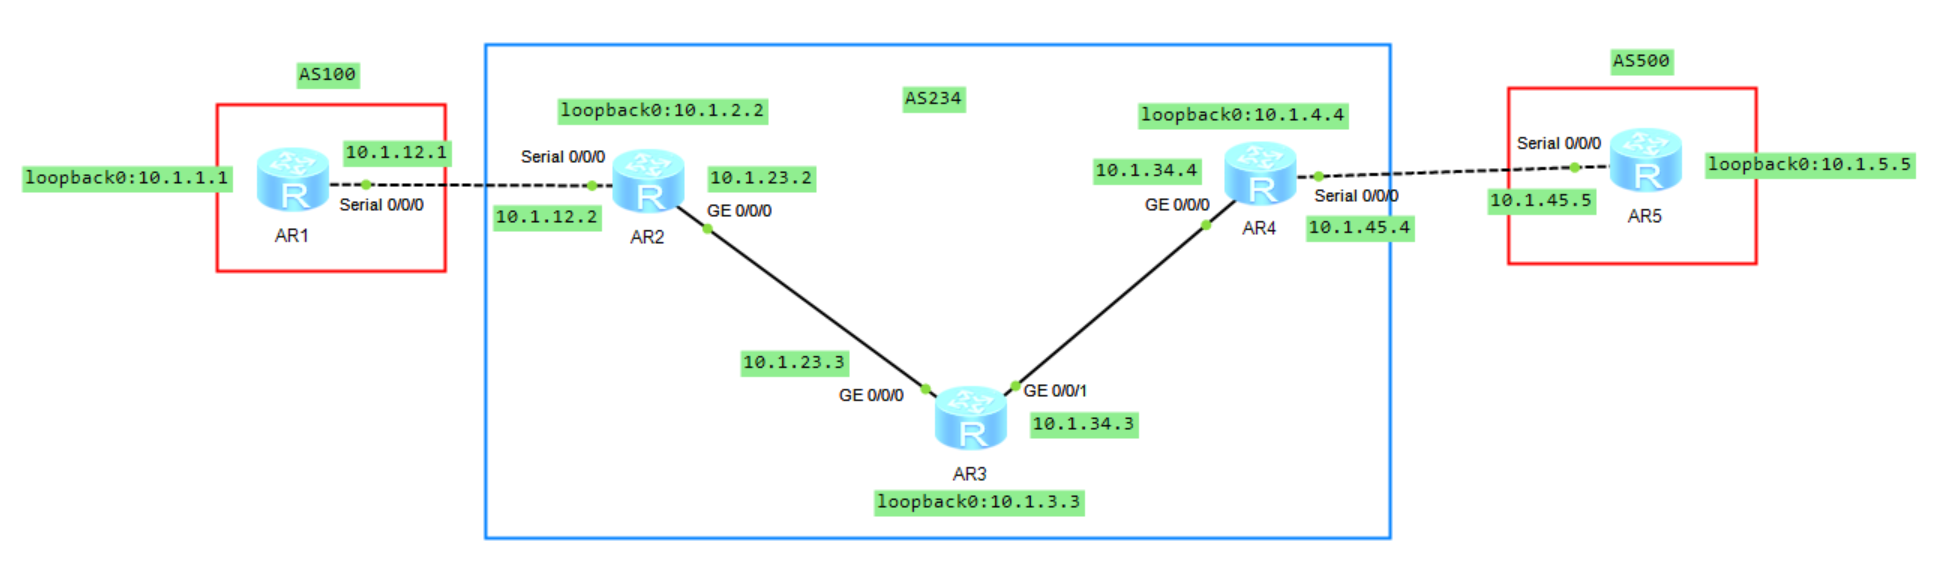
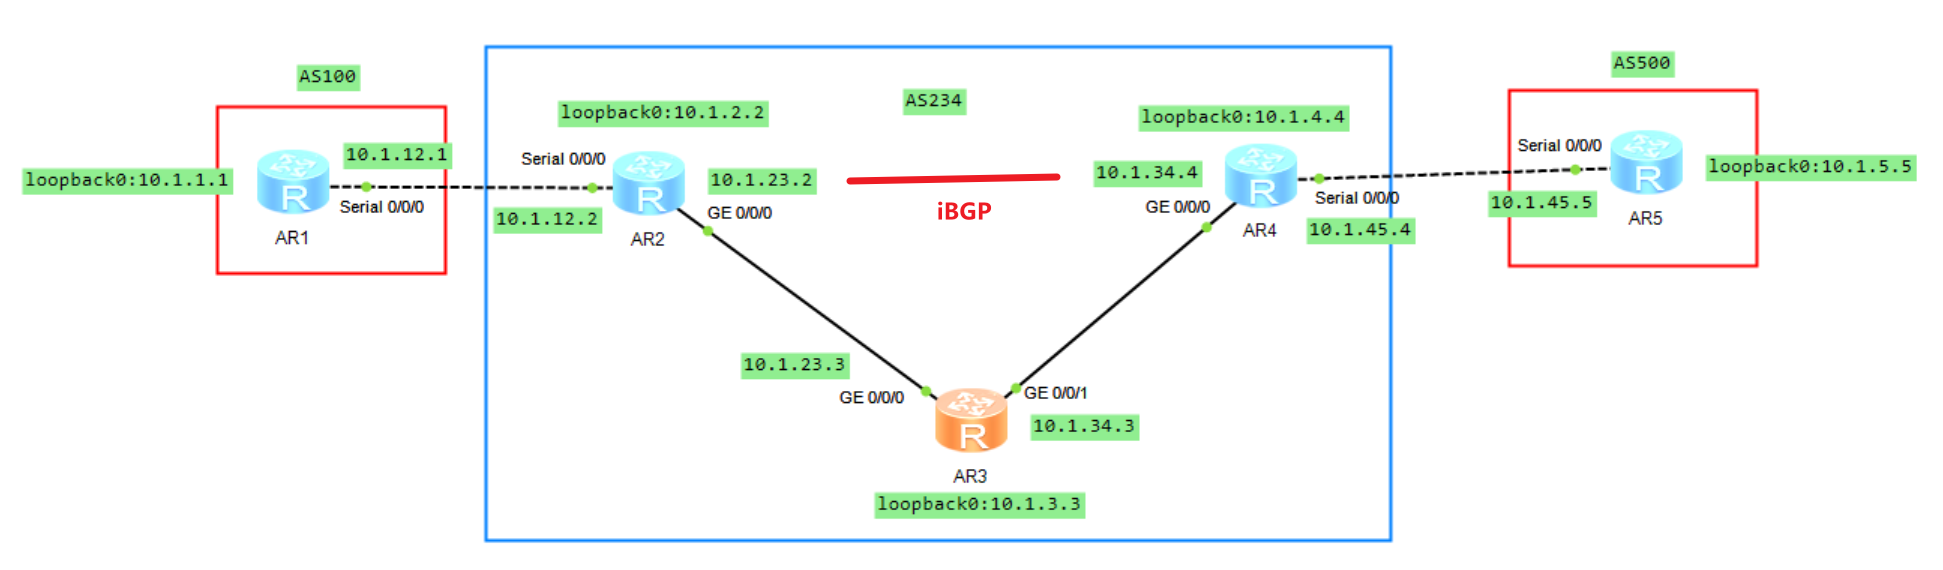
bgp 部分互联

diff --git a/计算机网络/网络层/bgp/BGP 基础.md b/计算机网络/网络层/bgp/BGP 基础.md
@@ -454,10 +454,8 @@ ip ip-prefix AR1-BGP-TO-OSPF index 10 permit 10.1.1.0 24
 
 ```java{.line-numbers}
 <AR2>display ospf routing 
-
 	 OSPF Process 1 with Router ID 2.2.2.2
 		  Routing Tables 
-
  Routing for Network 
  Destination        Cost  Type       NextHop         AdvRouter       Area
  10.1.2.2/32        0     Stub       10.1.2.2        2.2.2.2         0.0.0.0
@@ -550,3 +548,27 @@ Destination/Mask    Proto   Pre  Cost      Flags NextHop         Interface
 
 ### 2.3 BGP 部分互联之二
 
+<div align="center">
+    <img src="bgp_static/5.png" width="850"/>
+</div>
+
+在该拓扑中，AR1 位于 AS 100，AR2、AR3 和 AR4 位于 AS 234，AR5 位于 AS 500。首先，AR1 将本地网段 **`10.1.1.0/24`** 通过 eBGP 通告给 AR2。AR2 学到该 BGP 路由后，再通过 iBGP 将其发布给 AS 234 内的其他 BGP 路由器。AR3 随后由于 BGP 水平分割原则，不会将 **`10.1.1.0/24`** 通告给 AR4。如下所示，在 AR3 上学习到 **`10.1.1.0/24`** 的路由，但是在 AR4 上并没有学习到该路由。
+
+```java{.line-numbers}
+[AR3-bgp]display bgp routing-table 
+ BGP Local router ID is 10.1.23.3 
+ Total Number of Routes: 2
+      Network            NextHop        MED        LocPrf    PrefVal Path/Ogn
+ *>i  10.1.1.0/24        10.1.2.2        0          100        0      100i
+ *>i  10.1.5.0/24        10.1.4.4        0          100        0      500i
+[AR4-bgp]display bgp routing-table 
+ BGP Local router ID is 4.4.4.4 
+ Total Number of Routes: 1
+      Network            NextHop        MED        LocPrf    PrefVal Path/Ogn
+ *>   10.1.5.0/24        10.1.45.5       0                     0      500i
+```
+根据 RFC 4271，When a BGP speaker receives an UPDATE message from an internal peer, the receiving BGP speaker SHALL NOT re-distribute the routing information contained in that UPDATE message to other internal peers (unless the speaker acts as a BGP Route Reflector).也就是说，**<font color="red">如果 BGP Speaker 从本 AS 内的另一个 BGP Speaker 收到 UPDATE，就不能把其中的路由再次分发给本 AS 内的其他 BGP Speaker</font>**。
+
+如果网络中还存在 AR6，并且相关路由器通过同一 AS 内的 iBGP 继续互联，那么路由可能在多个 iBGP 节点之间反复传播。**<font color="red">由于 iBGP 通告通常不会在 **`AS_PATH`** 中追加本 AS 号，单纯依靠 eBGP 的 **`AS_PATH`** 防环机制并不能解决这种 AS 内部传播问题</font>**。因此，需要依靠 iBGP 水平分割规则，禁止普通 iBGP 路由器将从一个 iBGP 邻居学到的路由再次通告给其他 iBGP 邻居。
+
+BGP 水平分割这一传播限制又直接带来了传统 IBGP 的 Full Mesh（全连接）要求。假设 AS100 内存在 R1、R2、R3 三台 BGP 路由器，如果 R1 将一条路由通过 IBGP 通告给 R2，R2 不能再代替 R1 将该路由继续通告给 R3。因此，为了让 R3 同样获得 R1 的路由，R1 必须直接与 R3 建立 IBGP 会话；同理，R2 与 R3 之间也必须建立 IBGP 会话。最终三台设备需要形成 **`R1<->R2`**、**`R1<->R3`**、**`R2<->R3`** 的逻辑全连接。因此，传统 IBGP 中一个 AS 内的 BGP Speakers 通常需要组成 Full Mesh；如果有 N 台 IBGP Speaker，则需要维护 N×(N−1)/2 条 IBGP 会话。
